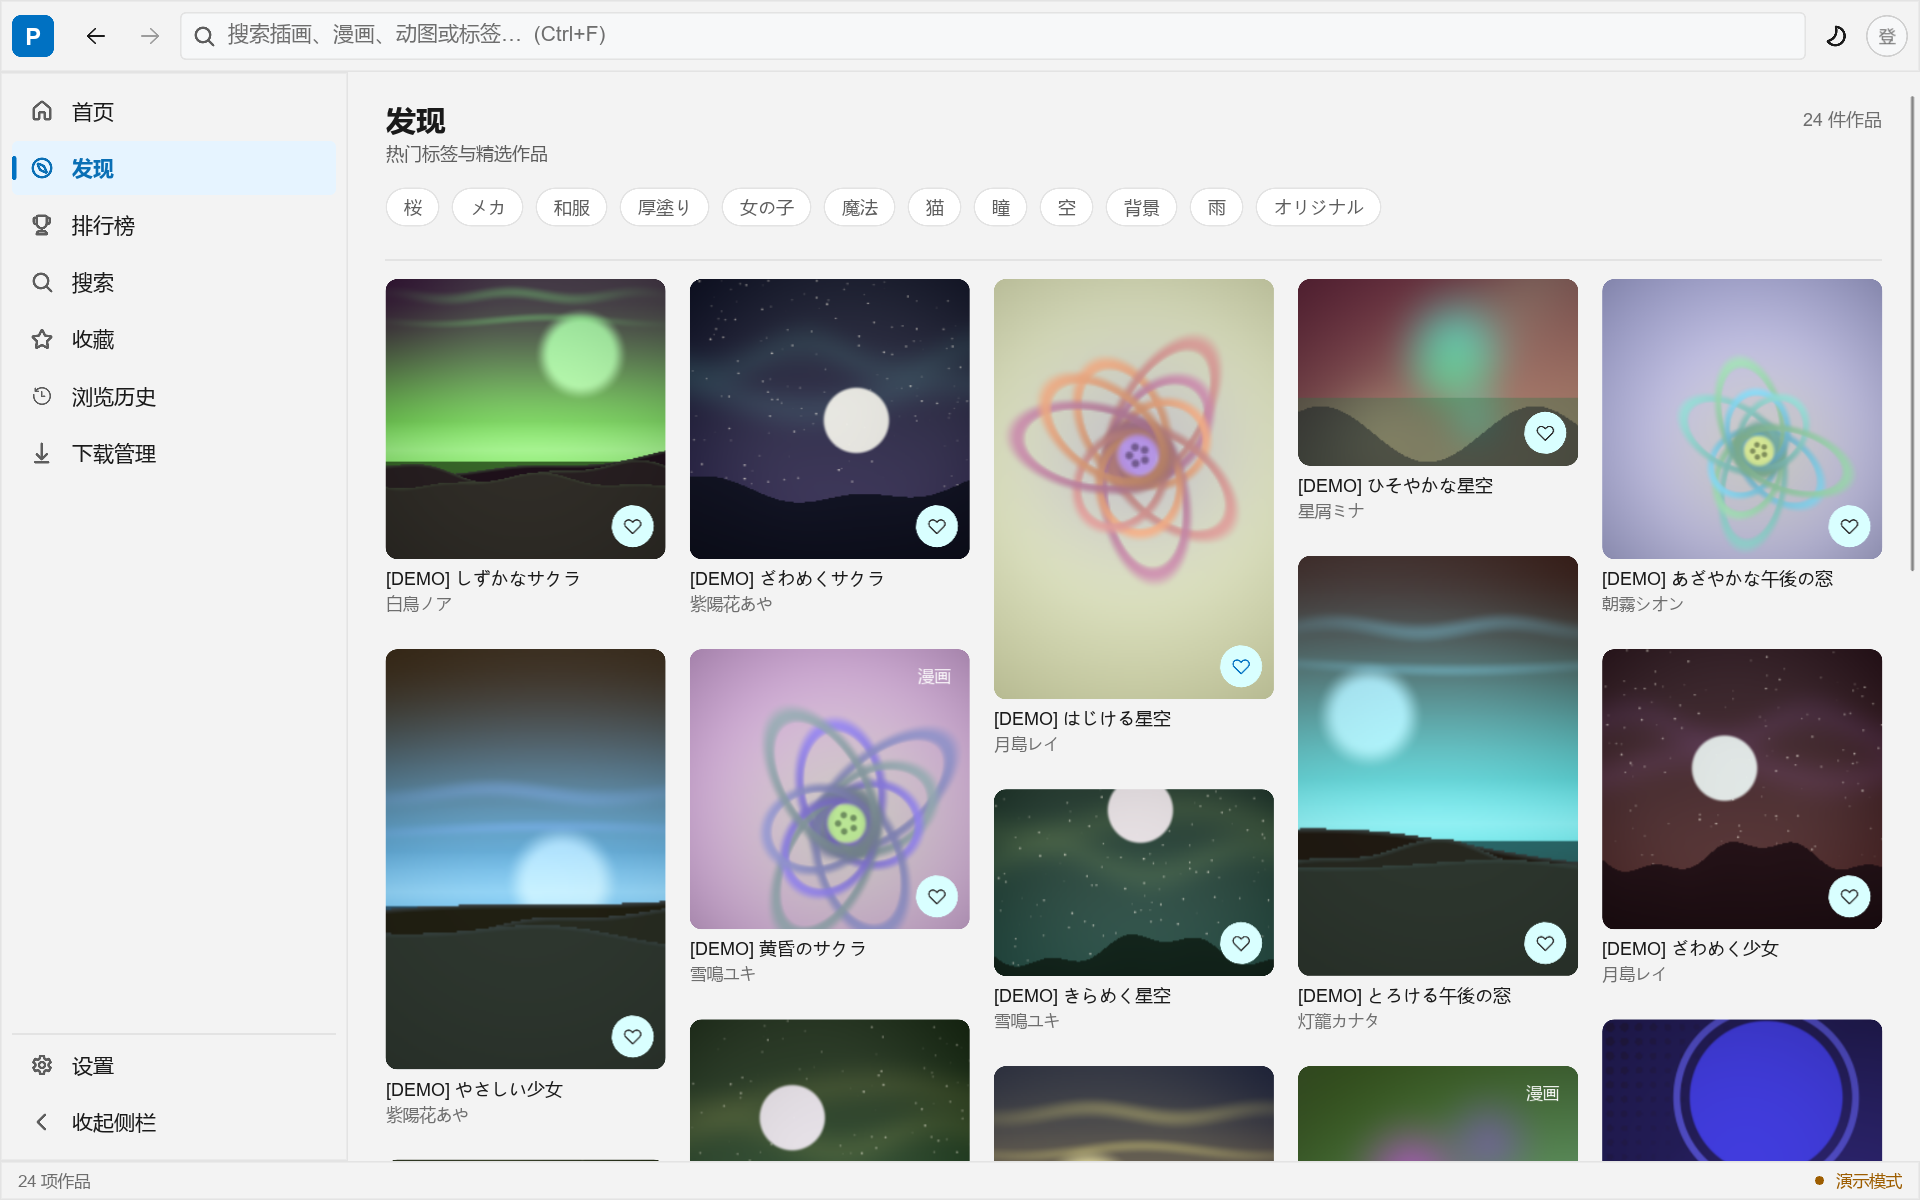
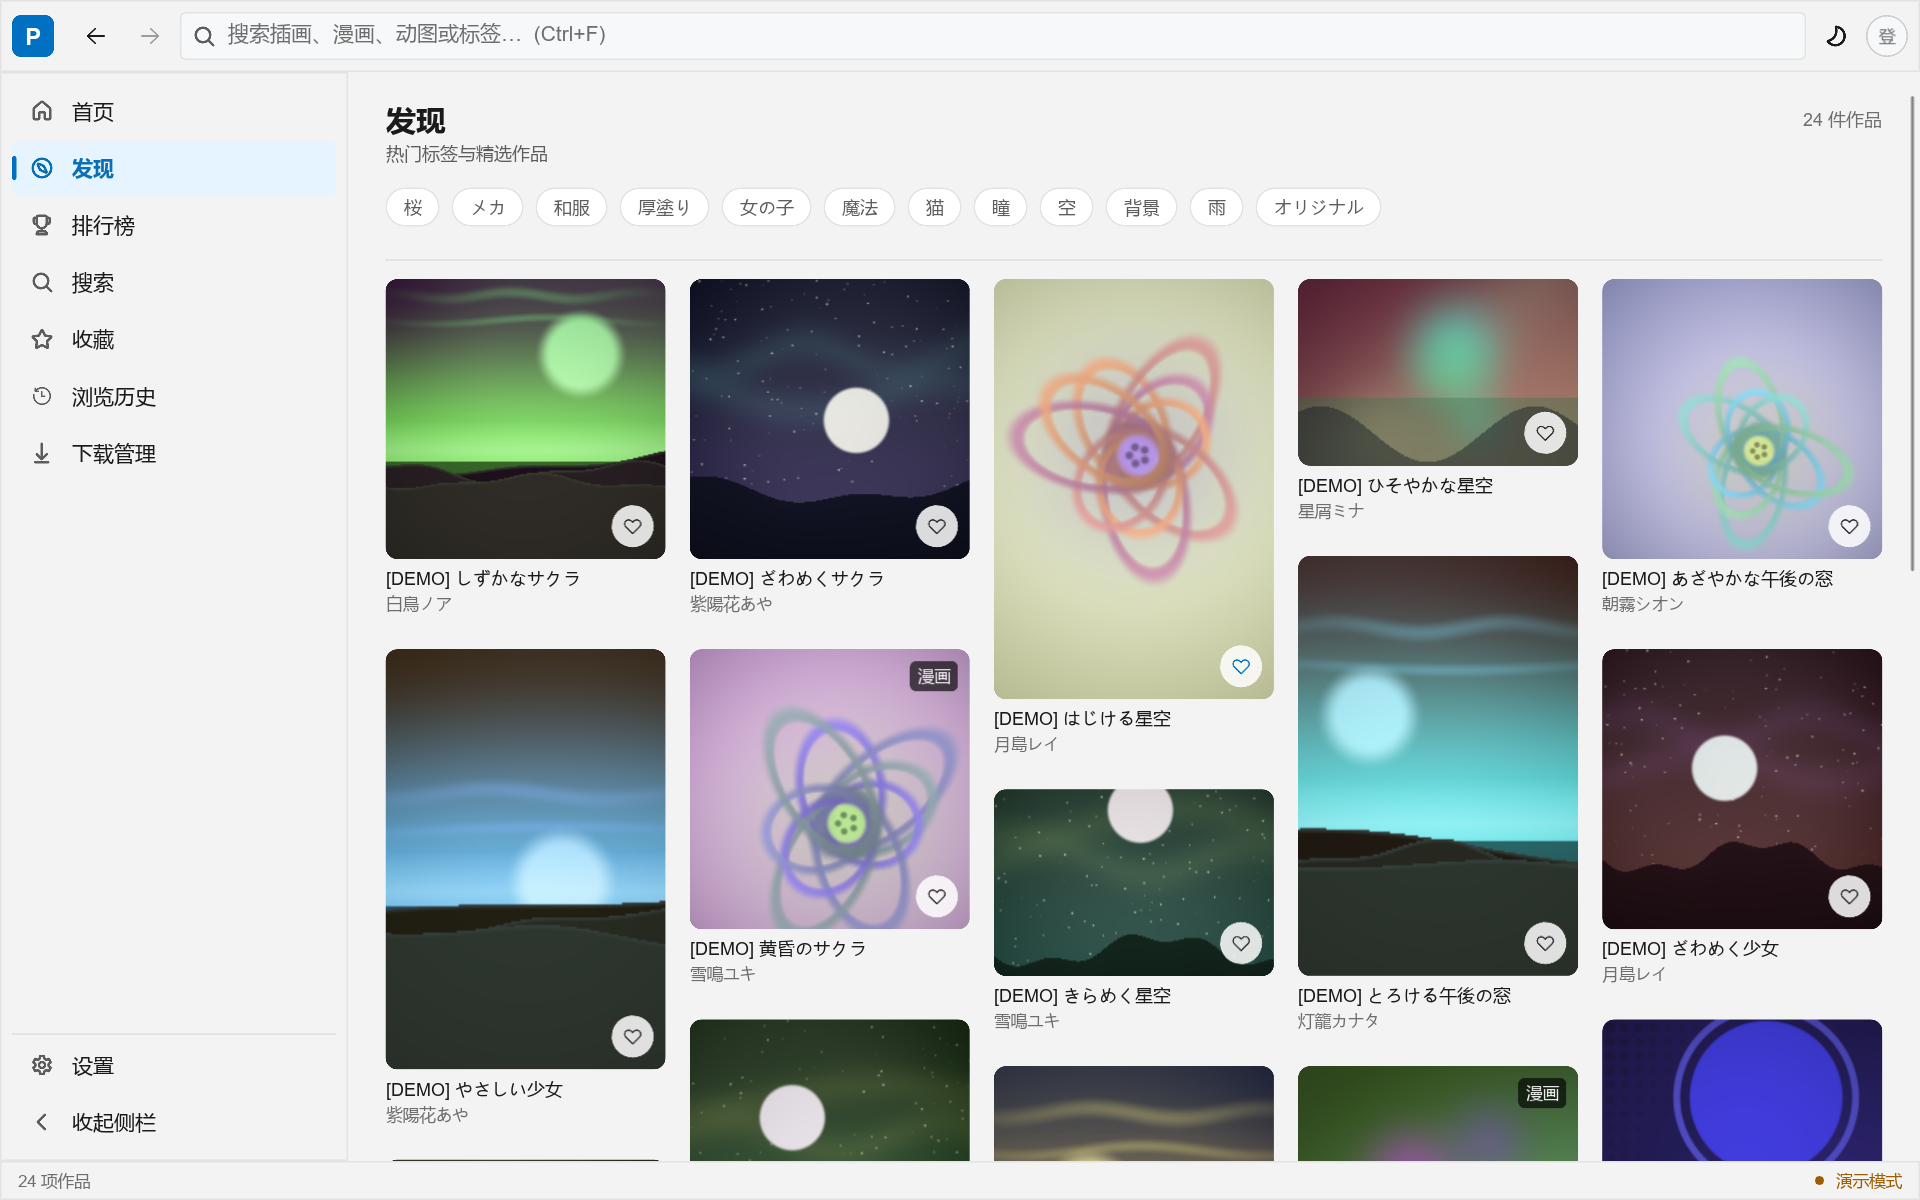
docs: record the round-three findings and refresh the curated screenshots
`docs/UI-NOTES.md` gains § 7-10: the two Slint facts that made every glyph sit
off-centre, the hit-testing defects that fell out of reverse declaration order, the
pixel-level harness that now proves the result, the theme triad and the state
duplication it removed, the contrast work, and the `#RRGGBBAA` byte-order bug.
Each entry states what was measured and by what, so the claim can be re-run rather
than believed.

The "what is still not verified here" section is rewritten for this round and the
round-one list is kept as an appendix rather than deleted: the pointer-automation
and DPI limits are unchanged, and the new keyboard fix is explicitly *not* verified
by pressing keys - the harness can trace a window but cannot type into it.

README: visual target corrected to 70/30 (it said 60/40), the icon-placement rule
documented where the icon pipeline is described, the verification section lists
`verify-icons.ps1`, and the screenshot set now includes the detail page.

diff --git a/docs/UI-NOTES.md b/docs/UI-NOTES.md
@@ -373,6 +373,34 @@ WCAG 2.1 relative luminance for the pairs the components actually compose, and
 fails under 4.5:1 (text) or 3:1 (non-text). `accent_is_decoration_only` enforces
 the absence of `Theme.accent` from every UI file, so the roles cannot merge again.
 
+
+### 9a. Every translucent colour had its alpha in the wrong byte
+
+Slint parses an 8-digit colour literal as `#RRGGBBAA` — the alpha is *trailing*
+(`i-slint-common::color_parsing`, whose own test asserts `#01234567 -> 0x67012345`).
+The theme was written as `#AARRGGBB`, so alpha and red were swapped on every
+translucent token:
+
+| Token | Written | Rendered | Intended |
+| --- | --- | --- | --- |
+| `hover` (light) | `#0a000000` | alpha 0 — invisible | 4% black |
+| `hover` (dark) | `#14ffffff` | alpha 255 bright cyan | 8% white |
+| `pressed` | `#14000000` | alpha 0 — invisible | 8% black |
+| `shadow-1` / `shadow-2` | `#4d000000` | alpha 0 — no shadow | 30% / 45% black |
+| `scrim` | `#b3050505` | alpha 5 | 70% black |
+| rank / type badge | `#a6000000` | alpha 0 — invisible | 65% black |
+| bookmark pill | `#d9ffffff` | opaque pale cyan | 85% white |
+| `viewer-chrome` | `#dd1c1c20` | alpha 32 | 87% near-black |
+
+Two consequences were visible in captures once you knew where to look: the detail
+page's zoom bar was a washed-out pale band instead of a dark pill, and the ranking
+grid showed bare `#4` text with no scrim behind it. Every hover and press state in
+the app was either invisible or the wrong colour.
+
+Fixed by putting every token in `#RRGGBBAA` order with its intended colour and
+alpha preserved. `translucent_colours_use_the_rrggbbaa_order` rejects any 8-digit
+literal whose alpha byte is 0 — the shape this mistake always takes.
+
 ## 10. What is still not verified here
 
 - **Pointer and keyboard interaction.** No input automation on this host: hover,

diff --git a/README.md b/README.md
@@ -32,9 +32,10 @@ coordinate. The curated set above is tracked; everything else stays local (see
 
 Icon alignment and colour contrast are **measured, not reviewed**:
 `tools/verify-icons.ps1` finds glyph ink centres in a real capture and fails if any
-of them drifts from its row, and `cargo test` checks WCAG ratios and the
-"no raw glyph outside the icon containers" rule. Both are described in
-[`docs/UI-NOTES.md`](docs/UI-NOTES.md) § 7–9.
+of them drifts from its row, and `cargo test` checks WCAG contrast ratios, the
+"no raw glyph outside the icon containers" rule, the `#RRGGBBAA` byte order of
+translucent colours, and that no `key-pressed` handler compares against a key
+*name*. All of it is described in [`docs/UI-NOTES.md`](docs/UI-NOTES.md) § 7–9.
 
 The engineering record for the layout work — root causes, fixes and what could
 not be verified here — is in [`docs/UI-NOTES.md`](docs/UI-NOTES.md).
@@ -154,7 +155,7 @@ about layout.
 
 ```powershell
 cargo fmt --all -- --check
-cargo test --workspace                       # 216 tests, 5 of them design rules
+cargo test --workspace                       # 220 tests, 7 of them design rules
 cargo build --release
 
 # lint (see limit 2 for why not `cargo clippy`)
